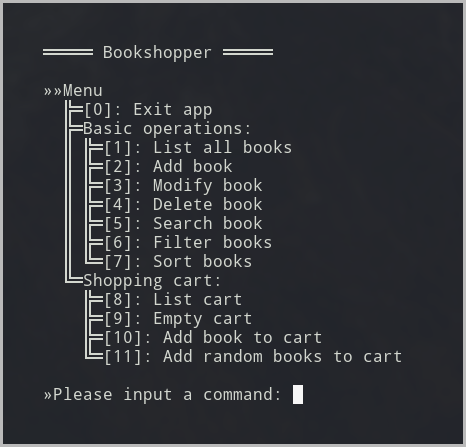
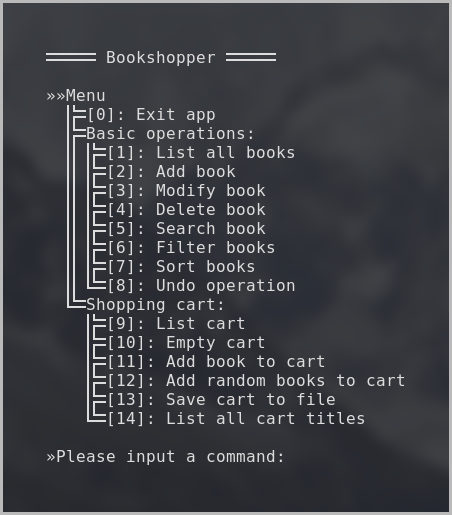
Updated readme with listing cart titles operation and menu picture

diff --git a/README.md b/README.md
@@ -48,7 +48,7 @@ The app displays a menu after each operation, presenting all posible operations.
 
 To select an operation, type the command number indicating the wanted operation and press <code>Enter</code> or <code>Return</code>.
 
-A book has some fields: _title_, _author_, _genre_, _release year_ and is uniqely identified by _**title**_ and _**author**_. The app should do the following operations:
+A book has some fields: _title_, _author_, _genre_, _release year_ and is uniqely identified by _**title**_ and _**author**_. Within the app you can do the following operations:
 > 1. Display the full list of books
 
 > 2. Basic operations:
@@ -76,5 +76,6 @@ A book has some fields: _title_, _author_, _genre_, _release year_ and is uniqel
 >    * Add book to cart (by title)
 >    * Add random books to cart
 >    * Export cart as CVS
+>    * List titles
 
 A more elaborate manual will be added to the [wiki](https://github.com/adipopbv/bookshopper/wiki) if decided necessary.
